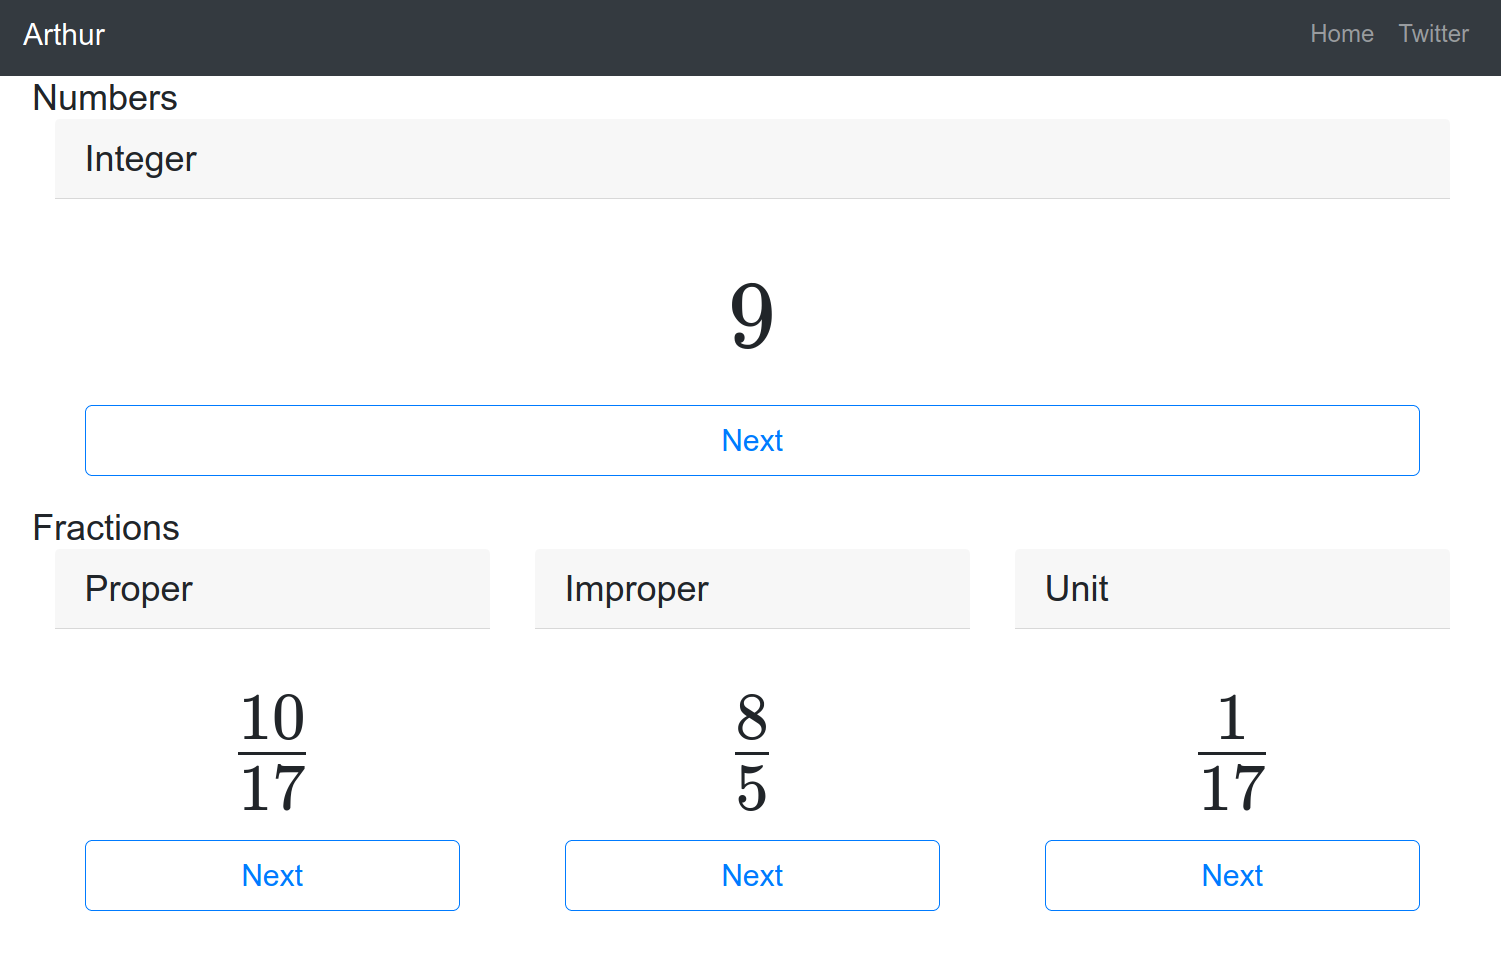
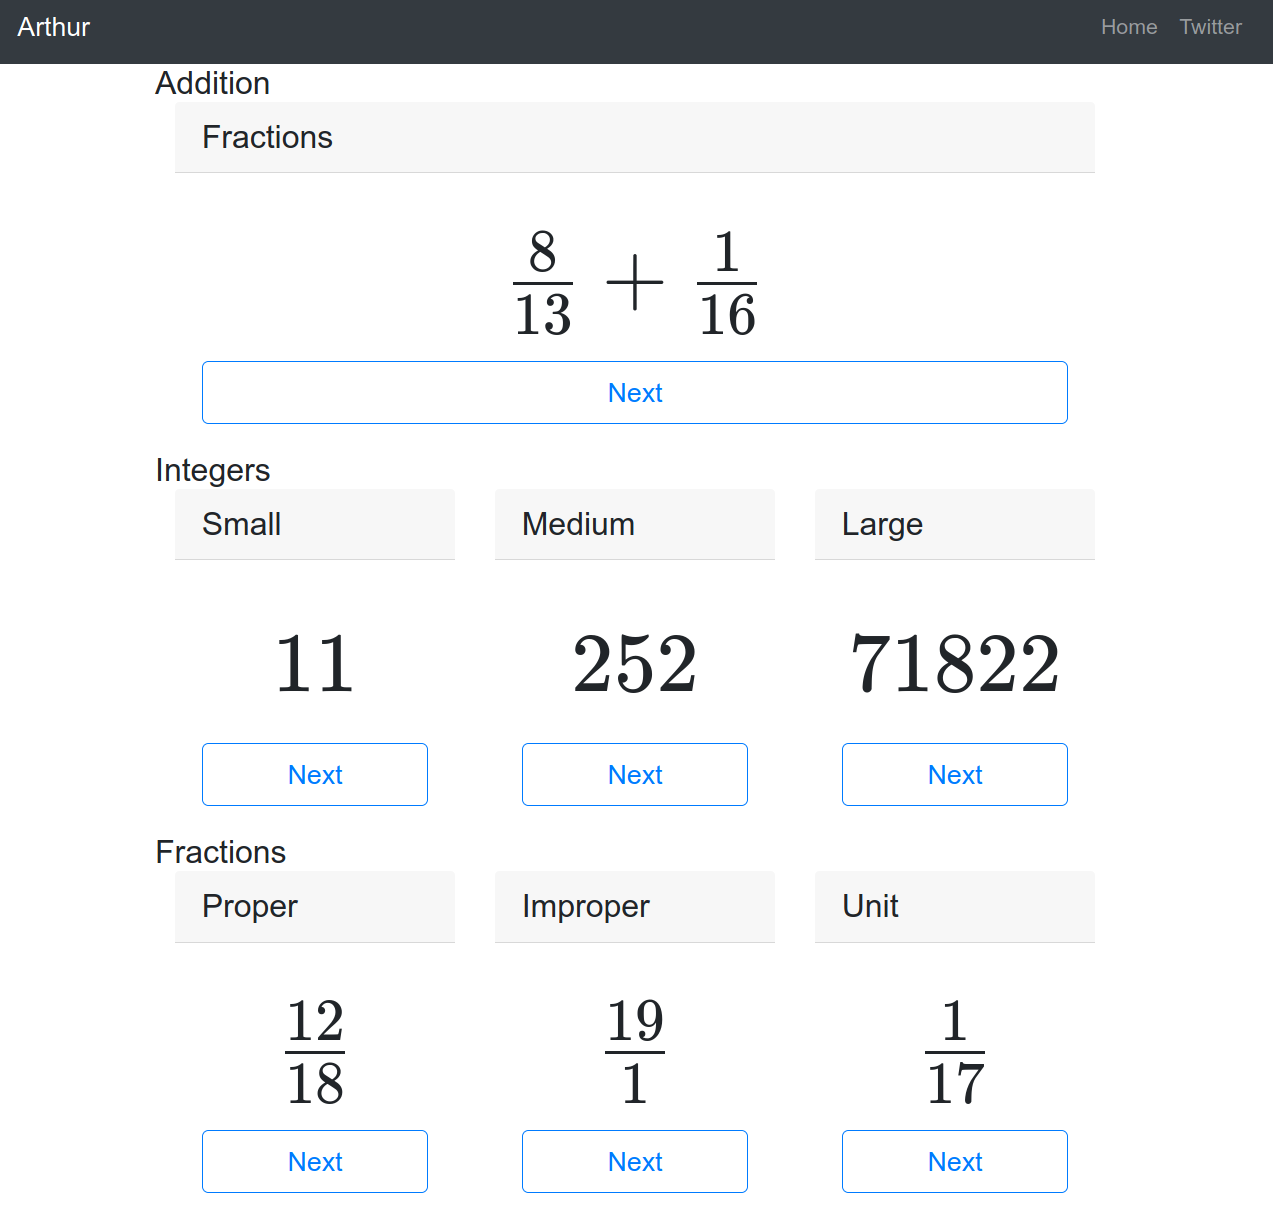
sum of fractions

diff --git a/examples/server/html/views/index.html b/examples/server/html/views/index.html
@@ -1,12 +1,26 @@
 {{template "root" .}}
 {{define "container"}}
 <div class="row">
-  <h4 class="my-0 font-weight-normal">Numbers</h4>
+  <h4 class="my-0 font-weight-normal">Addition</h4>
 </div>
 <div class="row">
   <div class="col-sm">
     <div class="card-header">
-      <h4 class="my-0 font-weight-normal">Integer - Small</h4>
+      <h4 class="my-0 font-weight-normal">Fractions</h4>
+    </div>
+    <div class="card-body">
+      <div id="addition" class="katex"></div>
+      <button type="button" class="btn btn-lg btn-block btn-outline-primary" onclick="loadSum('fraction')">Next</button>
+    </div>
+  </div>
+</div>
+<div class="row">
+  <h4 class="my-0 font-weight-normal">Integers</h4>
+</div>
+<div class="row">
+  <div class="col-sm">
+    <div class="card-header">
+      <h4 class="my-0 font-weight-normal">Small</h4>
     </div>
     <div class="card-body">
       <div id="integer_small" class="katex"></div>
@@ -15,7 +29,7 @@
   </div>
   <div class="col-sm">
     <div class="card-header">
-      <h4 class="my-0 font-weight-normal">Integer - Medium</h4>
+      <h4 class="my-0 font-weight-normal">Medium</h4>
     </div>
     <div class="card-body">
       <div id="integer_medium" class="katex"></div>
@@ -24,7 +38,7 @@
   </div>
   <div class="col-sm">
     <div class="card-header">
-      <h4 class="my-0 font-weight-normal">Integer - Large</h4>
+      <h4 class="my-0 font-weight-normal">Large</h4>
     </div>
     <div class="card-body">
       <div id="integer_large" class="katex"></div>

diff --git a/examples/server/static/js/arthur.js b/examples/server/static/js/arthur.js
@@ -38,6 +38,20 @@ function loadInteger(size) {
     alert( "Request failed: " + textStatus );
   });
 }
+function loadSum(sumType) {
+  var request = $.ajax({
+    url: "api/v1/sum",
+    method: "GET",
+  });
+
+  request.done(function( msg ) {
+    katex.render(msg, addition);
+  });
+
+  request.fail(function( jqXHR, textStatus ) {
+    alert( "Request failed: " + textStatus );
+  });
+}
 $( document ).ready(function() {
     console.log( "ready!" );
     loadInteger('small');
@@ -46,4 +60,5 @@ $( document ).ready(function() {
     loadFraction('proper');
     loadFraction('improper');
     loadFraction('unit');
+    loadSum('fraction');
 });

diff --git a/tib/tib.go b/tib/tib.go
@@ -30,6 +30,14 @@ func ArthurFractionHandler(w http.ResponseWriter, r *http.Request) {
 	}
 }
 
+func ArthurFractionSumHandler(w http.ResponseWriter, r *http.Request) {
+	var a, b, exp arthur.Expression
+	a = arthur.NewRandIntegerFraction()
+	b = arthur.NewRandIntegerFraction()
+	exp = &arthur.Sum{a, b}
+	fmt.Fprintf(w, exp.LaTeX())
+}
+
 func ArthurIntegerHandler(w http.ResponseWriter, r *http.Request) {
 	format := r.URL.Query().Get("format")
 
@@ -65,5 +73,7 @@ func SetupMux(prefix string, mux *http.ServeMux) error {
 	mux.HandleFunc(u.String(), ArthurIntegerHandler)
 	u, _ = base.Parse("fraction")
 	mux.HandleFunc(u.String(), ArthurFractionHandler)
+	u, _ = base.Parse("sum")
+	mux.HandleFunc(u.String(), ArthurFractionSumHandler)
 	return nil
 }

diff --git a/examples/server/main.go b/examples/server/main.go
@@ -20,7 +20,7 @@ func handleMain(w http.ResponseWriter, r *http.Request) {
 	})
 	pd.Body.Scripts = append(pd.Body.Scripts, &HTMLScript{
 		Src:       "/static/js/arthur.js",
-		Integrity: "sha384-EOPddPsZuhHUKUyLCDpvaFGwPUYLa0cgTf+VVV36+NVooETOhdusPpSxLPfCgv0q",
+		Integrity: "sha384-Gt8OHrojQG0oL1bFYZzZR4jtxcslsKaTaOS4mAUQcr1Mlhf7bueUPSktS2HYfyqL",
 	})
 
 	t := templates["index.html"]

diff --git a/operation_test.go b/operation_test.go
@@ -1,0 +1,16 @@
+package arthur
+
+import (
+	"regexp"
+	"testing"
+
+	"github.com/stretchr/testify/assert"
+)
+
+func TestAdd(t *testing.T) {
+	var a, b, s Expression
+	a = NewRandIntegerFraction()
+	b = NewRandIntegerFraction()
+	s = &Sum{a, b}
+	assert.Regexp(t, regexp.MustCompile(`{\\frac{[-]?[\d]+}{[-]?[\d]+}}\+{\\frac{[-]?[\d]+}{[-]?[\d]+}}`), s.LaTeX())
+}

diff --git a/operation.go b/operation.go
@@ -1,0 +1,14 @@
+package arthur
+
+import (
+	"fmt"
+)
+
+type Sum struct {
+	A Expression `json:"a"`
+	B Expression `json:"b"`
+}
+
+func (s *Sum) LaTeX() string {
+	return fmt.Sprintf("{%s}+{%s}", s.A.LaTeX(), s.B.LaTeX())
+}
